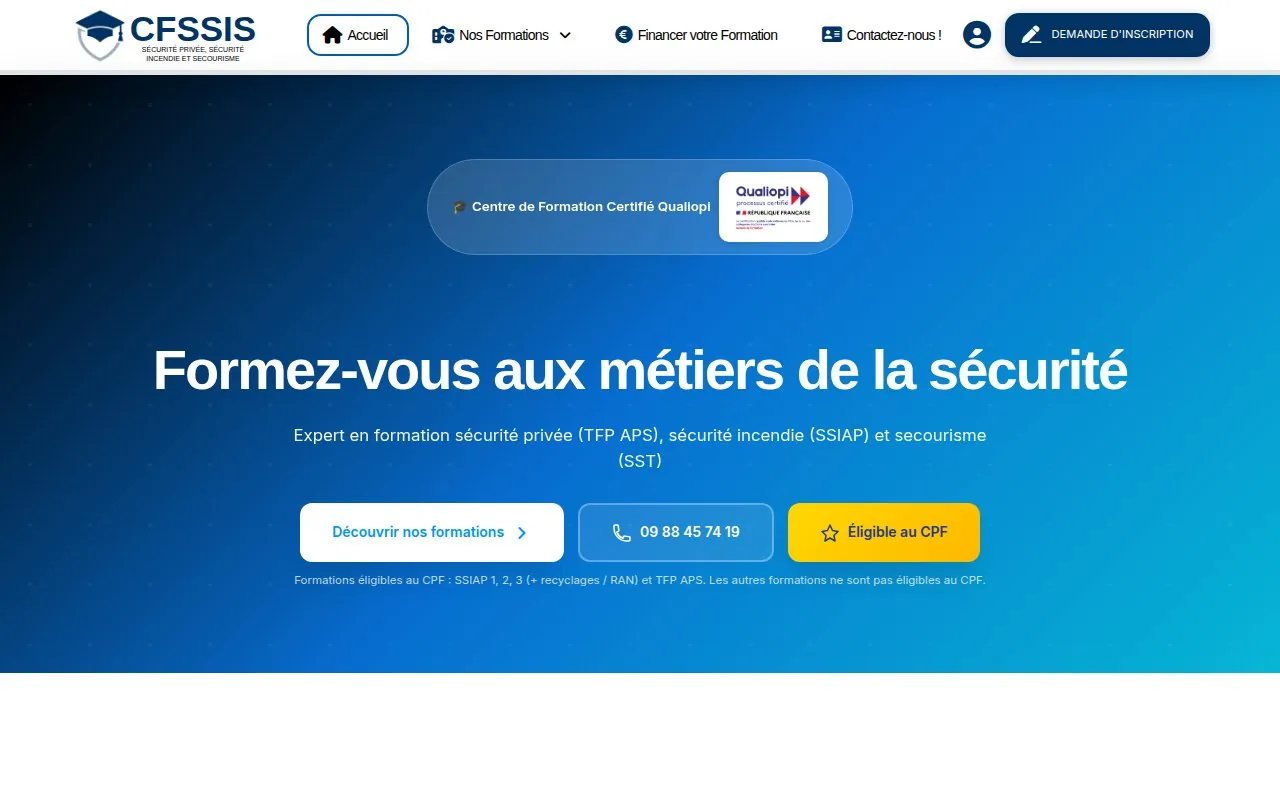
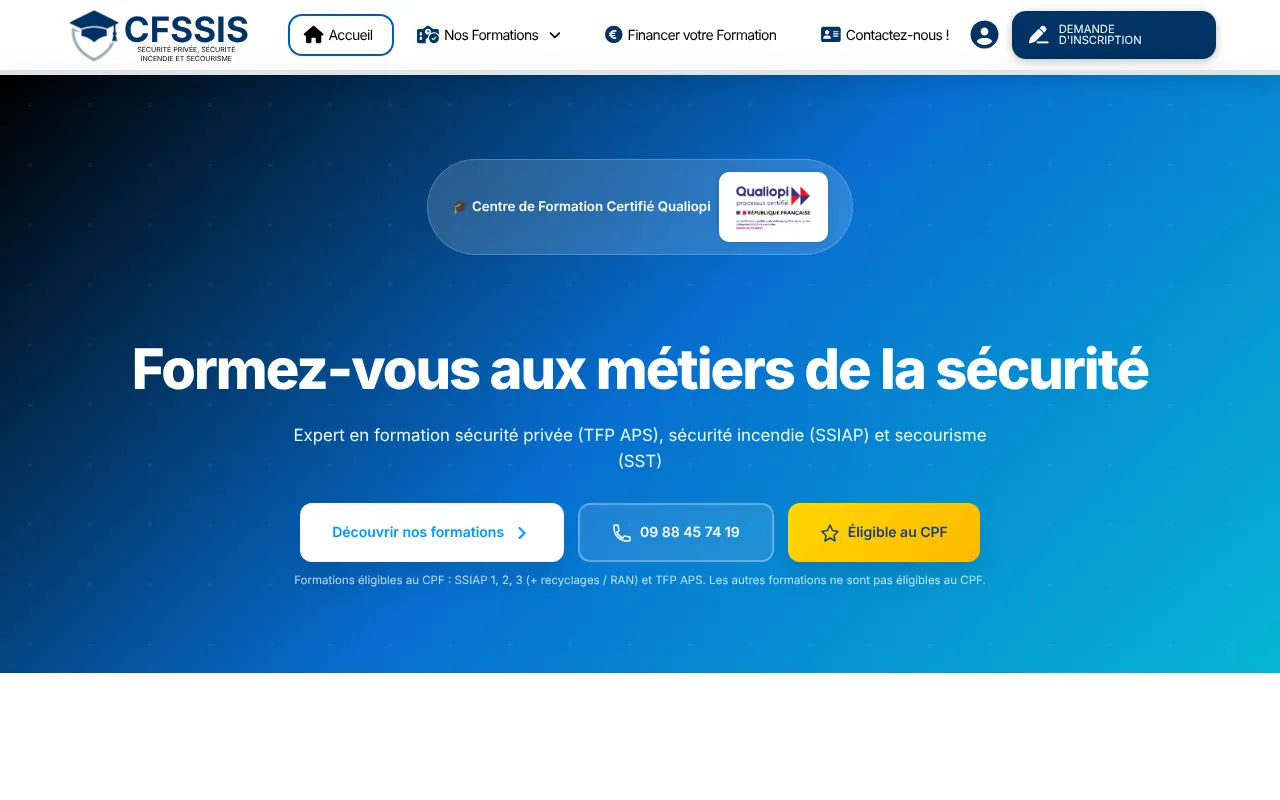
Réalisations : captures à jour sans bandeau cookies et image Manou Bolomik
- Nouvelles captures (1280x800, WebP) de CFSSIS, Il Manque 1, Solution
  Sécurité, STS Sécurité et Manou Bolomik, bandeaux cookies fermés ou
  masqués. Vigiprestance inchangée (site injoignable, capture propre).
- Ajoute l'image Manou Bolomik qui manquait (lien cassé).
- Il Manque 1 décrit comme application web d'organisation de parties
  (et non boutique en ligne).

Claude-Session: https://claude.ai/code/session_0144XEqaX9XDnnXbN1aAxT7J

diff --git a/site-html/realisations.php b/site-html/realisations.php
@@ -42,15 +42,15 @@ require_once __DIR__ . '/includes/header.php';
 
         <div class="portfolio-card glass portfolio-featured" data-animate>
           <div class="portfolio-image" style="background-image: url('/images/portfolio/ilmanque1.webp'); background-size: cover; background-position: top center;">
-            <span class="portfolio-category glass">E-commerce</span>
+            <span class="portfolio-category glass">Application web</span>
           </div>
           <div class="portfolio-content">
             <h3>Il Manque 1</h3>
-            <p>Site e-commerce moderne et dynamique. Interface intuitive avec catalogue produits, panier et système de commande en ligne.</p>
+            <p>Application web gratuite pour organiser une partie de padel, tennis ou badminton : un lien partagé dans le groupe, chacun prend sa place en un geste, sans compte ni appli à installer.</p>
             <div class="portfolio-tags">
-              <span>E-commerce</span>
-              <span>Boutique</span>
-              <span>Responsive</span>
+              <span>Application web</span>
+              <span>Mobile</span>
+              <span>SEO</span>
             </div>
             <a href="https://ilmanque1.fr" target="_blank" rel="noopener" class="btn btn-secondary portfolio-btn">Voir le site →</a>
           </div>
@@ -105,7 +105,7 @@ require_once __DIR__ . '/includes/header.php';
         </div>
 
         <div class="portfolio-card glass" data-animate>
-          <div class="portfolio-image" style="background-image: url('/images/portfolio/manoubolomik.jpg'); background-size: cover; background-position: top center;">
+          <div class="portfolio-image" style="background-image: url('/images/portfolio/manoubolomik.webp'); background-size: cover; background-position: top center;">
             <span class="portfolio-category glass">Artiste</span>
           </div>
           <div class="portfolio-content">

diff --git a/site-html/index.php b/site-html/index.php
@@ -141,7 +141,7 @@ require_once __DIR__ . '/includes/header.php';
 <?php
 $realisations = [
     ['nom' => 'CFSSIS', 'image' => 'cfssis.webp', 'categorie' => 'Formation', 'url' => 'https://cfssis.fr', 'texte' => 'Site vitrine complet pour un centre de formation en sécurité incendie et sûreté.'],
-    ['nom' => 'Il Manque 1', 'image' => 'ilmanque1.webp', 'categorie' => 'E-commerce', 'url' => 'https://ilmanque1.fr', 'texte' => 'Boutique en ligne avec catalogue produits, panier et commande en ligne.'],
+    ['nom' => 'Il Manque 1', 'image' => 'ilmanque1.webp', 'categorie' => 'Application web', 'url' => 'https://ilmanque1.fr', 'texte' => 'Application gratuite pour organiser une partie de padel ou de tennis : un lien dans le groupe, chacun prend sa place.'],
     ['nom' => 'Solution Sécurité', 'image' => 'solution-securite.webp', 'categorie' => 'Sécurité privée', 'url' => 'https://solution-securite.fr', 'texte' => 'Site professionnel pour une entreprise de gardiennage et de surveillance.'],
 ];
 foreach ($realisations as $r):
